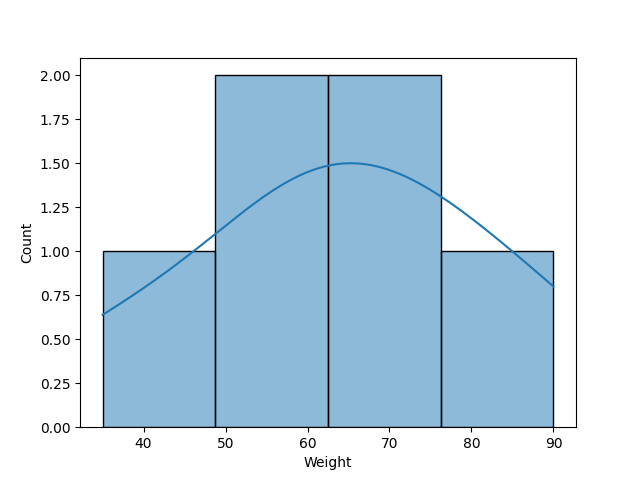
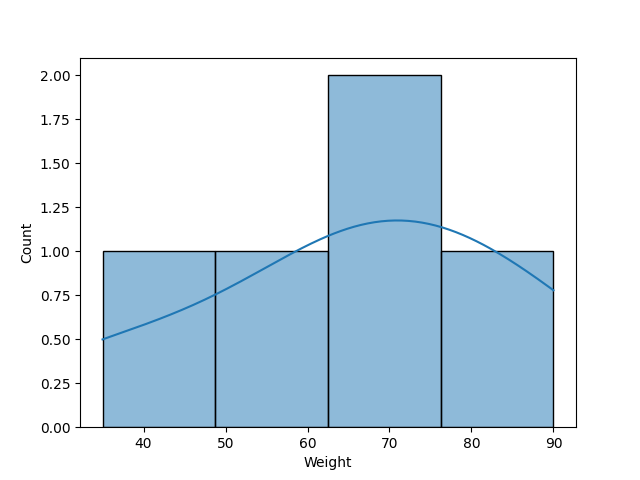
Done

diff --git a/csv_analysis_project/analysis/templates/public_site/analyze.html b/csv_analysis_project/analysis/templates/public_site/analyze.html
@@ -12,13 +12,13 @@
             </div>
         <div class="container">
             <div class="row g-5 align-items-center">
-                <div class="col-lg-8 wow fadeIn order-md-2" data-wow-delay="0.1s">
+                <div class="col-lg-5 wow fadeIn order-md-2" data-wow-delay="0.1s">
                     <h1 class="display-5 mb-4">First Few Rows Of Data</h1>
                     <!-- <p class="mb-4 ">Step 2: Create an Account</p> -->
                     <p><i class="fa fa-check text-primary me-3"></i>"Preview of the first few rows of CSV data showing key details, including headers and initial entries for a quick overview and analysis."</p>
                    
                 </div>
-                <div class="col-lg-4 wow fadeIn order-md-1 " data-wow-delay="0.5s">
+                <div class="col-lg-7 wow fadeIn order-md-1 " data-wow-delay="0.5s">
                     <div class="position-relative overflow-hidden ml-5">
                         {{ first_rows|safe }}
                         
@@ -69,14 +69,14 @@
 
         <div class="container">
             <div class="row g-5 align-items-center">
-                <div class="col-lg-7 wow fadeIn" data-wow-delay="0.1s">
+                <div class="col-lg-4 wow fadeIn" data-wow-delay="0.1s">
                     <h1 class="display-5 mb-4">Summary Statistics</h1>
                     <!-- <p class="mb-4 ">Step 2: Create an Account</p> -->
                     <p><i class="fa fa-check text-primary me-3"></i>"CSV Summary Statistics provides a concise overview of data, including mean, median, mode, standard deviation, and more. It aids in understanding the distribution and characteristics of the dataset at a glance."</p>
                     
                 
                 </div>
-                <div class="col-lg-5 my-5 wow fadeIn" data-wow-delay="0.5s">
+                <div class="col-lg-8 my-5 wow fadeIn" data-wow-delay="0.5s">
                     
                     <div class="position-relative overflow-hidden ms-0">
                         {{ summary_stats|safe }}

diff --git a/csv_analysis_project/analysis/templates/public_site/base.html b/csv_analysis_project/analysis/templates/public_site/base.html
@@ -55,24 +55,6 @@
             </button>
             <div class="collapse navbar-collapse" id="navbarCollapse">
                 <div class="navbar-nav ms-auto p-4 p-lg-0">
-                    {% comment %} <a href="{% url 'public_site:home' %}" class="nav-item nav-link active">Home</a>
-                    <a href="{% url 'public_site:about' %}" class="nav-item nav-link">About Us</a>
-                    <a href="{% url 'public_site:how-it-works' %}" class="nav-item nav-link">How It Works</a>
-                    <a href="{% url 'public_site:blogs' %}" class="nav-item nav-link">Blog</a>
-
-                    <a href="{% url 'public_site:contact' %}" class="nav-item nav-link">Contact Us</a> {% endcomment %}
-                </div>
-                <!-- <div class="d-none d-lg-flex ms-2">
-                    <a class="btn-sm-square bg-white rounded-circle ms-3" href="">
-                        <small class="fa fa-search text-body"></small>
-                    </a>
-                    <a class="btn-sm-square bg-white rounded-circle ms-3" href="">
-                        <small class="fa fa-user text-body"></small>
-                    </a>
-                    <a class="btn-sm-square bg-white rounded-circle ms-3" href="">
-                        <small class="fa fa-shopping-bag text-body"></small>
-                    </a>
-                </div> -->
             </div>
         </nav>
     </div>

diff --git a/csv_analysis_project/analysis/templates/public_site/index.html b/csv_analysis_project/analysis/templates/public_site/index.html
@@ -44,6 +44,11 @@
                         </div>
                     </div>
                 </div>
+                <div style="text-align: center;">
+                    <p>Note: Upload Only CSV File</p>
+                   </div>
+                
+
             </div>
 
         </div>

diff --git a/csv_analysis_project/analysis/views.py b/csv_analysis_project/analysis/views.py
@@ -1,3 +1,8 @@
+
+import matplotlib
+matplotlib.use('Agg')
+import logging
+logger = logging.getLogger(__name__)
 from django.views.generic import DetailView, CreateView
 from django.shortcuts import redirect
 import os
@@ -10,7 +15,10 @@ from django.utils import timezone
 from .forms import CSVFileForm
 from .models import CSVFile
 from django.urls import reverse, reverse_lazy
+from django.contrib import messages
 
+
+from django.contrib import messages
 
 class UploadCSVView(CreateView):
     """
@@ -22,6 +30,11 @@ class UploadCSVView(CreateView):
     success_url = reverse_lazy('analysis:upload_csv')
 
     def form_valid(self, form):
+        uploaded_file = self.request.FILES.get('file')
+        if not uploaded_file.name.endswith('.csv'):
+            messages.error(self.request, 'Please upload a CSV file.')
+            return redirect('analysis:upload_csv')
+
         csv_file = form.save()
         return redirect(reverse('analysis:analyze_csv', kwargs={'pk': csv_file.id}))
 
@@ -53,21 +66,30 @@ class AnalyzeCSVView(DetailView):
             # Handle missing values
             context['missing_values'] = self.style_table(data.isnull().sum().to_frame(name='Missing Values').to_html(classes='styled-table'))
 
-            # Additional statistics
-            context['mean_values'] = self.style_table(data.mean().to_frame(name='Mean').to_html(classes='styled-table'))
-            context['median_values'] = self.style_table(data.median().to_frame(name='Median').to_html(classes='styled-table'))
-            context['std_dev_values'] = self.style_table(data.std().to_frame(name='Standard Deviation').to_html(classes='styled-table'))
+                    
+            # Assuming 'data' is your DataFrame
+            data_numeric = data.apply(pd.to_numeric, errors='coerce')
+            data_numeric.dropna(inplace=True)
 
+            # Additional statistics
+            context['mean_values'] = self.style_table(data_numeric.mean().to_frame(name='Mean').to_html(classes='styled-table'))
+            context['median_values'] = self.style_table(data_numeric.median().to_frame(name='Median').to_html(classes='styled-table'))
+            context['std_dev_values'] = self.style_table(data_numeric.std().to_frame(name='Standard Deviation').to_html(classes='styled-table'))
+            
             # Data Visualization
             histograms = {}
             for column in data.select_dtypes(include=[np.number]).columns:
-                plt.figure()
-                sns.histplot(data[column], kde=True)
-                img_path = os.path.join(settings.MEDIA_ROOT, f'histogram_{column}.png')
-                plt.savefig(img_path)
-                plt.close()  # Close the plot to avoid memory issues
-                histograms[column] = f'{settings.MEDIA_URL}histogram_{column}.png'
-            
+                try:
+                    plt.figure()
+                    sns.histplot(data[column], kde=True)
+                    img_path = os.path.join(settings.MEDIA_ROOT, f'histogram_{column}.png')
+                    plt.savefig(img_path)
+                    plt.close()  # Close the plot to avoid memory issues
+                    histograms[column] = f'{settings.MEDIA_URL}histogram_{column}.png'
+                except Exception as e:
+                    logger.error(f"Error generating histogram for column {column}: {e}")
+                    continue
+
             context['histograms'] = histograms
 
             # Schedule deletion after 10 minutes
@@ -78,7 +100,7 @@ class AnalyzeCSVView(DetailView):
             return context
         except FileNotFoundError:
             return redirect('analysis:upload_csv')
-
+        
     def style_table(self, table_html):
         """
         Style HTML tables with CSS.

diff --git a/csv_analysis_project/csv_analysis_project/settings.py b/csv_analysis_project/csv_analysis_project/settings.py
@@ -126,3 +126,4 @@ STATIC_URL = 'static/'
 # https://docs.djangoproject.com/en/5.0/ref/settings/#default-auto-field
 
 DEFAULT_AUTO_FIELD = 'django.db.models.BigAutoField'
+
